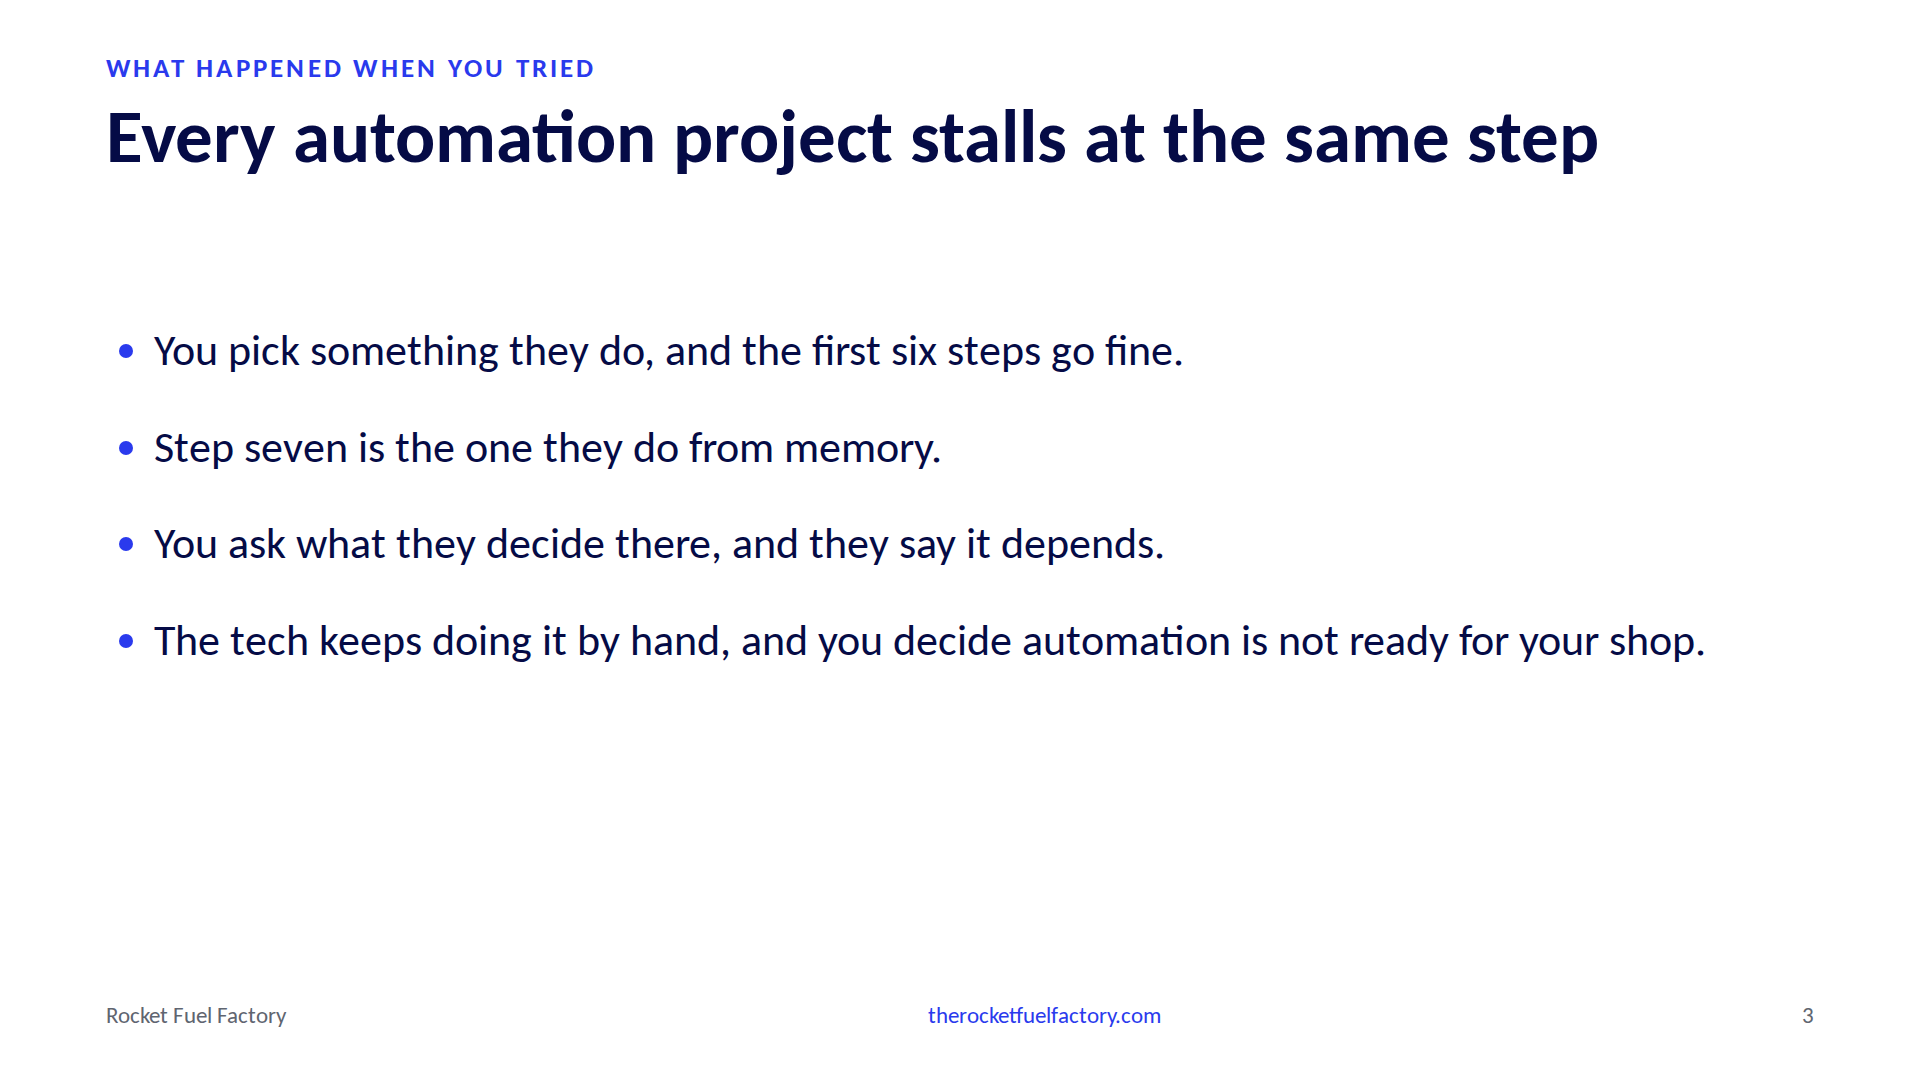
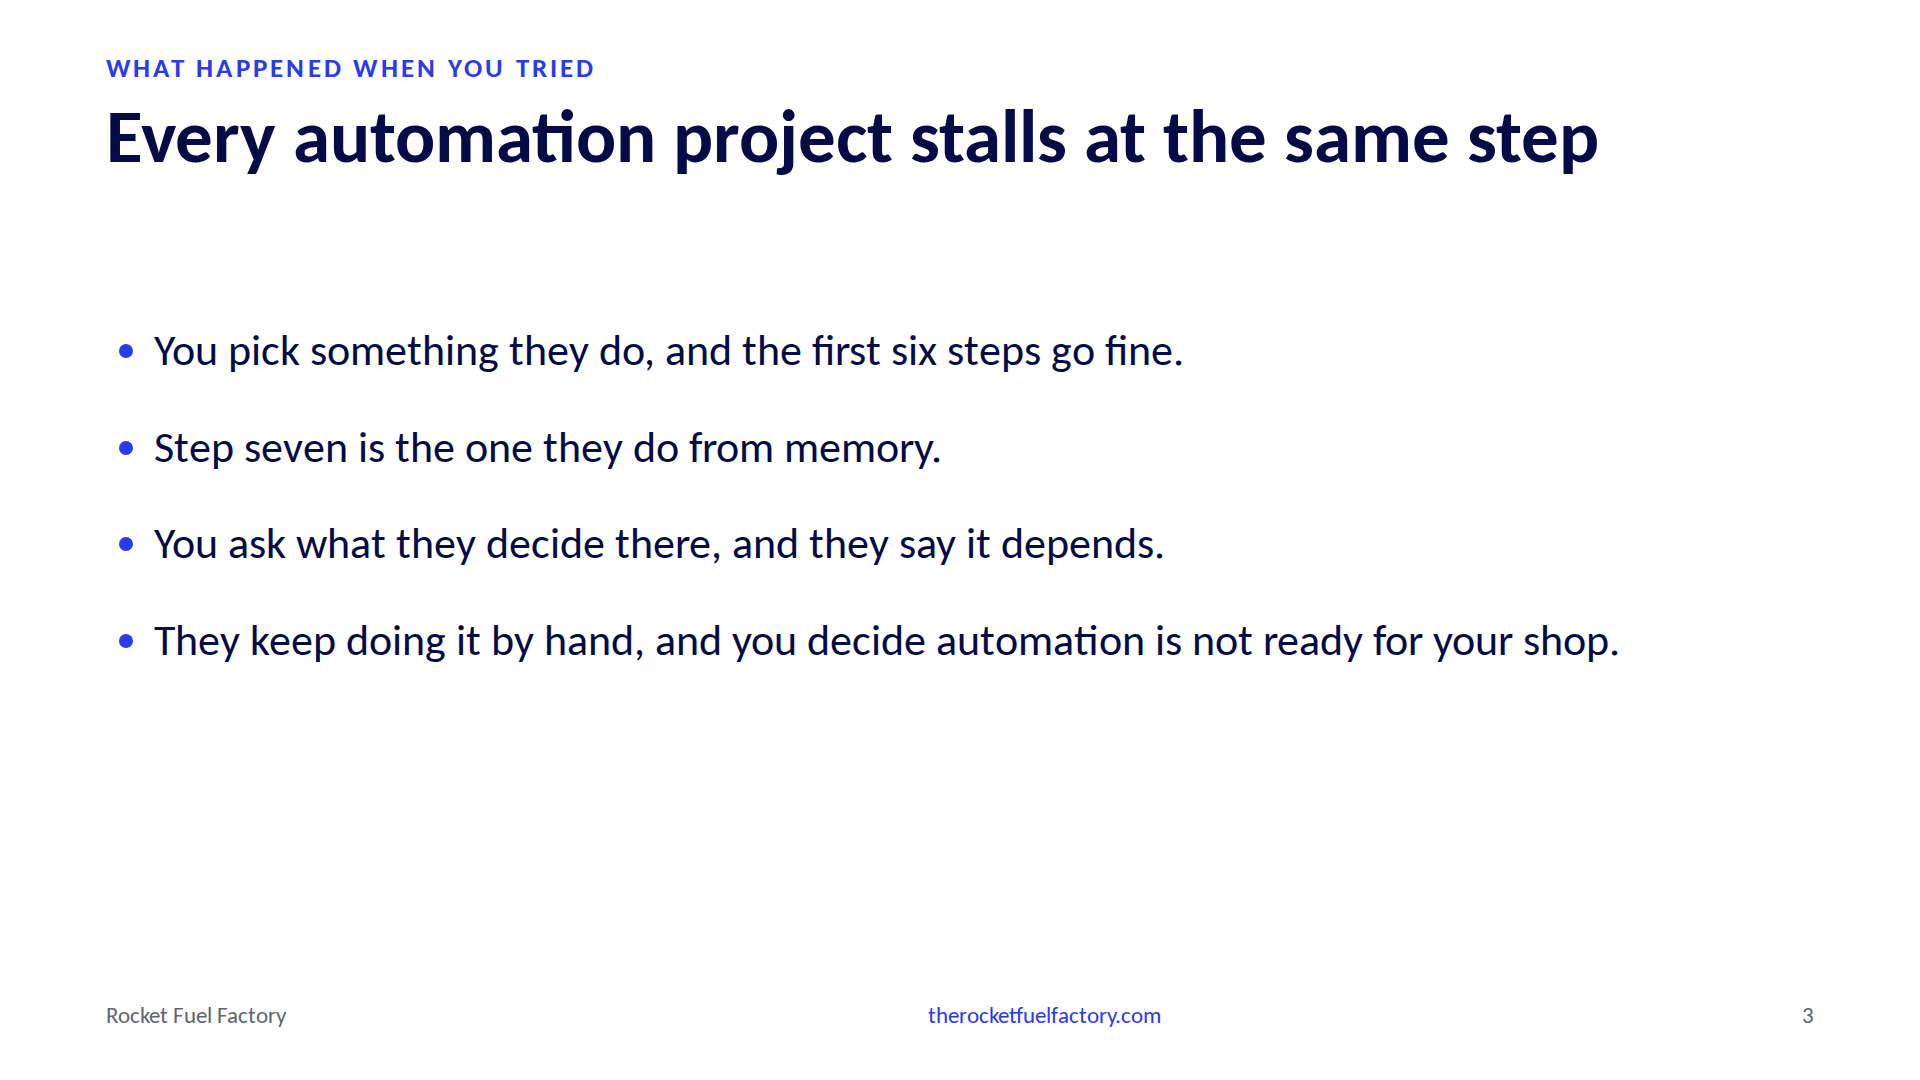
Slide 3: note reordered so the fear line is the conclusion; pronoun consistent

Changed region(s): [[0.0938, 0.5806, 0.875, 0.6111]]

diff --git a/src/data/notes.js b/src/data/notes.js
@@ -6,7 +6,7 @@
 export const notes = {
   cover: 'Target 0:00. No verbatim line. Land straight after Dawn and Dave. Do not summarize their talk, one sentence of thanks and go.',
   automatons: 'Target 0:20. SLOW. You have a name in your head right now. You are not afraid of them taking a week off because they are lazy, or because the team is thin. You are afraid because when they are out, things go wrong that nobody can explain, and the client is the one who notices. Keep that name. This talk is about that person, and about why the work they do has never made it out of their head.',
-  'where-the-project-stops': 'Target 1:00. We built computers to be automation machines, and most of us are afraid to actually automate anything with them. Here is why. You have tried this, with that person. You picked something they do every week, sat down together, and the first six steps went on the whiteboard in ten minutes. Step seven is the one they do without thinking. You asked what they decide there, and the honest answer was: it depends. Then a client went down, the second session never got scheduled, and the whole thing became phase two. It looked like you ran out of time. You did not. The next step had no answer, so there was nothing to schedule. Automation did not fail there. That one step did. Here is what it depends is made of.',
+  'where-the-project-stops': 'Target 1:00. The way out of that dread is obvious. Get what they know out of their head, onto a checklist or into a system, so somebody else can do it. You have tried. You picked something they do every week, sat down together, and the first six steps went on the whiteboard in ten minutes. Step seven is the one they do without thinking. You asked what they decide there, and the honest answer was: it depends. Then a client went down, the second session never got scheduled, and the whole thing became phase two. It looked like you ran out of time. You did not. The next step had no answer, so there was nothing to schedule. That is why we built computers to be automation machines and are afraid to automate anything with them. It is not the machine we are afraid of. It is step seven. Here is what step seven is made of.',
   'the-typing-is-hiding-a-decision': 'Target 1:50. SLOW. Why did the rule never get written? Read the three lines. Every one of those is a decision, and it happens inside the typing, so it looks like typing. Your best tech makes them all day and has never once been asked to say how, because the work got done. Computers can do the typing. The deciding stayed with the tech because nobody wrote it down, and nobody wrote it down because nobody asked. Stay with the person here, not AI. Bridge, before the click: why has nobody asked? Because it worked. Your best tech kept deciding, the work kept getting done, and you never found out you had handed over the deciding along with the doing. We call that delegating. It is not. Click.',
   'abdicate-not-delegate': 'Target 3:20. The cause. Pick up the thread: you handed over the doing and the deciding together. Line to land: delegating is handing over the work and keeping the definition of done. Abdicating is handing over both. We became the automatons because we abdicated: the deciding stayed in one head, so the doing stayed with one pair of hands. Then the mechanism: you have gotten away with it because your best tech decides what you meant. The vague brief works on them, so you never find out it was vague. Then you give the same brief to the new hire and decide the new hire is not working out. Closing line off the slide: your best tech has been filling in the blanks for years, the new hire could not, neither can this.',
   'the-demo-never-had-a-client': 'Target 4:50. Rant slide, about a minute. No vendor names. Every launch video this year: someone says one sentence, something impressive appears, they say awesome, cut. Any answer would have been fine, because the only person checking was the person who asked. That is why one sentence was enough, and that is where you learned to ask that way. Do not mention the email or the ticket; the next slide opens it cold.',

diff --git a/src/components/slides/003-WhereTheProjectStops.jsx b/src/components/slides/003-WhereTheProjectStops.jsx
@@ -17,7 +17,7 @@ export default function WhereTheProjectStops({ slideNumber }) {
         <li className="mt-[36px]">Step seven is the one they do from memory.</li>
         <li className="mt-[36px]">You ask what they decide there, and they say it depends.</li>
         <li className="mt-[36px]">
-          The tech keeps doing it by hand, and you decide automation is not ready for your shop.
+          They keep doing it by hand, and you decide automation is not ready for your shop.
         </li>
       </ul>
     </ContentFrame>

diff --git a/docs/OUTLINE.md b/docs/OUTLINE.md
@@ -36,7 +36,7 @@ Closing line: If you can't write the rule, you can't hire your way out of it eit
 
 1. Cover
 2. Pull statement, blue, a question with no footer: Whose vacation request do you dread approving? SLOW. Ask it, let the room name someone, click. The answer is the talk. Opens on delivery (what breaks when that person is out) without claiming anything about the room or repeating the Sizers. Tim's automation-fear line moved to the spoken opening of slide 3.
-3. Every automation project stalls at the same step (bullets, blue). You pick something they do, and the first six steps go fine. Step seven is the one they do from memory. You ask what they decide there, and they say it depends. The tech keeps doing it by hand, and you decide automation is not ready for your shop. Note names the scheduling objection: the second mapping session never happened because the next step had no answer. Bridge: next slide is what it depends is made of.
+3. Every automation project stalls at the same step (bullets, blue). You pick something they do, and the first six steps go fine. Step seven is the one they do from memory. You ask what they decide there, and they say it depends. They keep doing it by hand, and you decide automation is not ready for your shop. Note names the scheduling objection: the second mapping session never happened because the next step had no answer. Bridge: next slide is what it depends is made of.
 4. Which alert is noise. Which client gets the short version. Which ticket gets a phone call. Your best tech decides that all day. Nobody has ever asked them how. (Statement, three navy lines, orange payoff.) SLOW. No illustration. Slide 3 is the stalled attempt, slide 4 names the decisions hiding inside the typing and why they never got written down. No Adobe here; that line belongs to Mike at slide 13. Photographable: concrete lines the room recognizes, not a slogan. Bridge to 5, spoken: why has nobody asked? Because it worked. You handed over the deciding along with the doing and never found out. We call that delegating. It is not. Go to slide 5, not straight to AI.
 
 5. We abdicate, we think we delegate (comparison). Delegate: hand over the work, keep the definition of done, say what good looks like. Abdicate: hand over both, grade against the version in your head, get away with it until you don't. The mechanism: the best tech fills in what you meant, so the vague brief works and you never learn it was vague. The new hire gets the same brief and no context, and you decide the new hire is not working out. Closing: your best tech has been filling in the blanks for years. The new hire couldn't. Neither can this.
